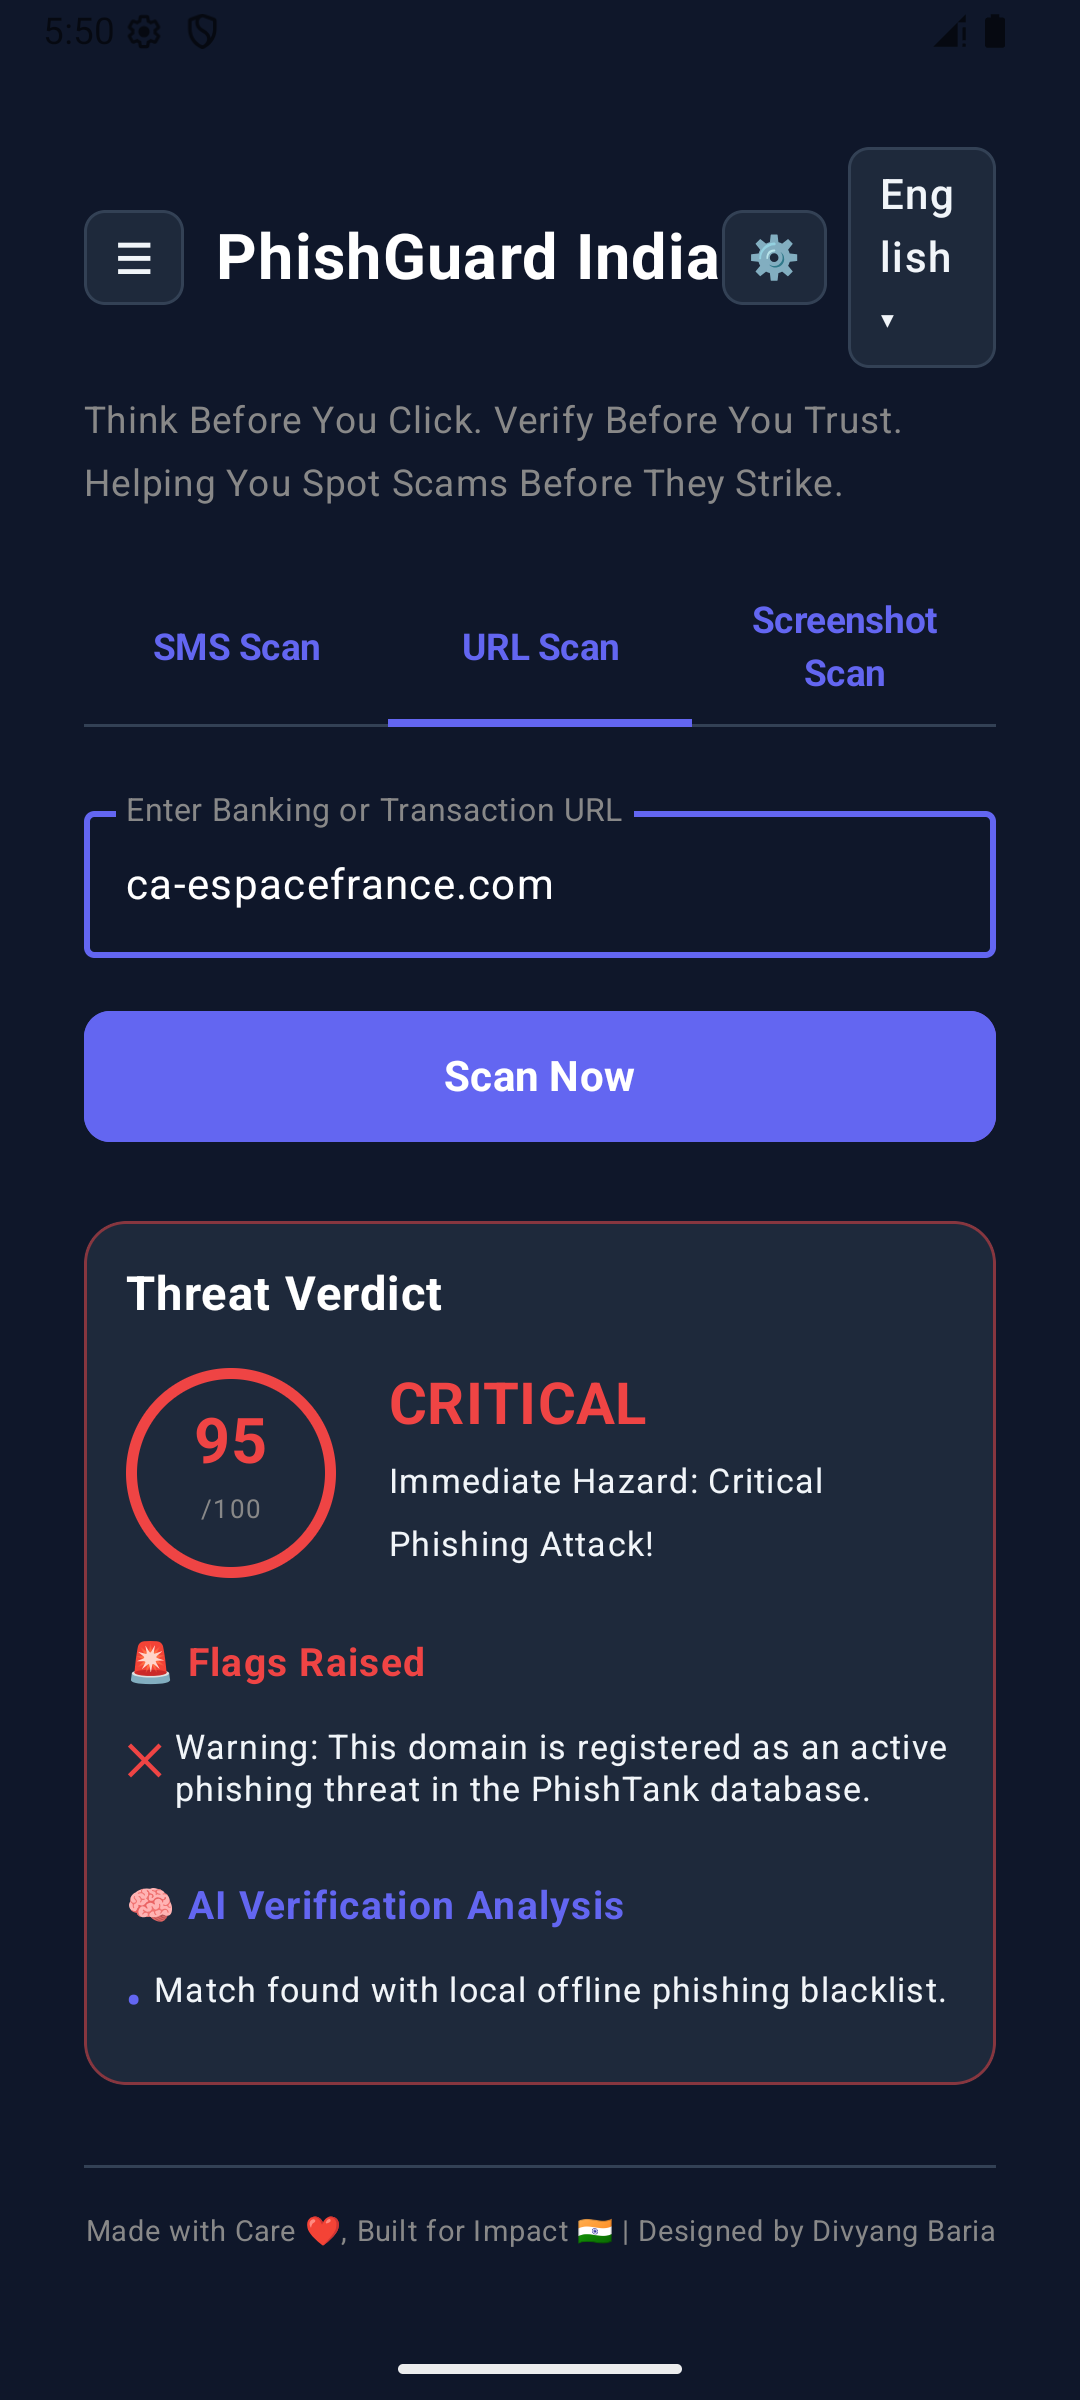
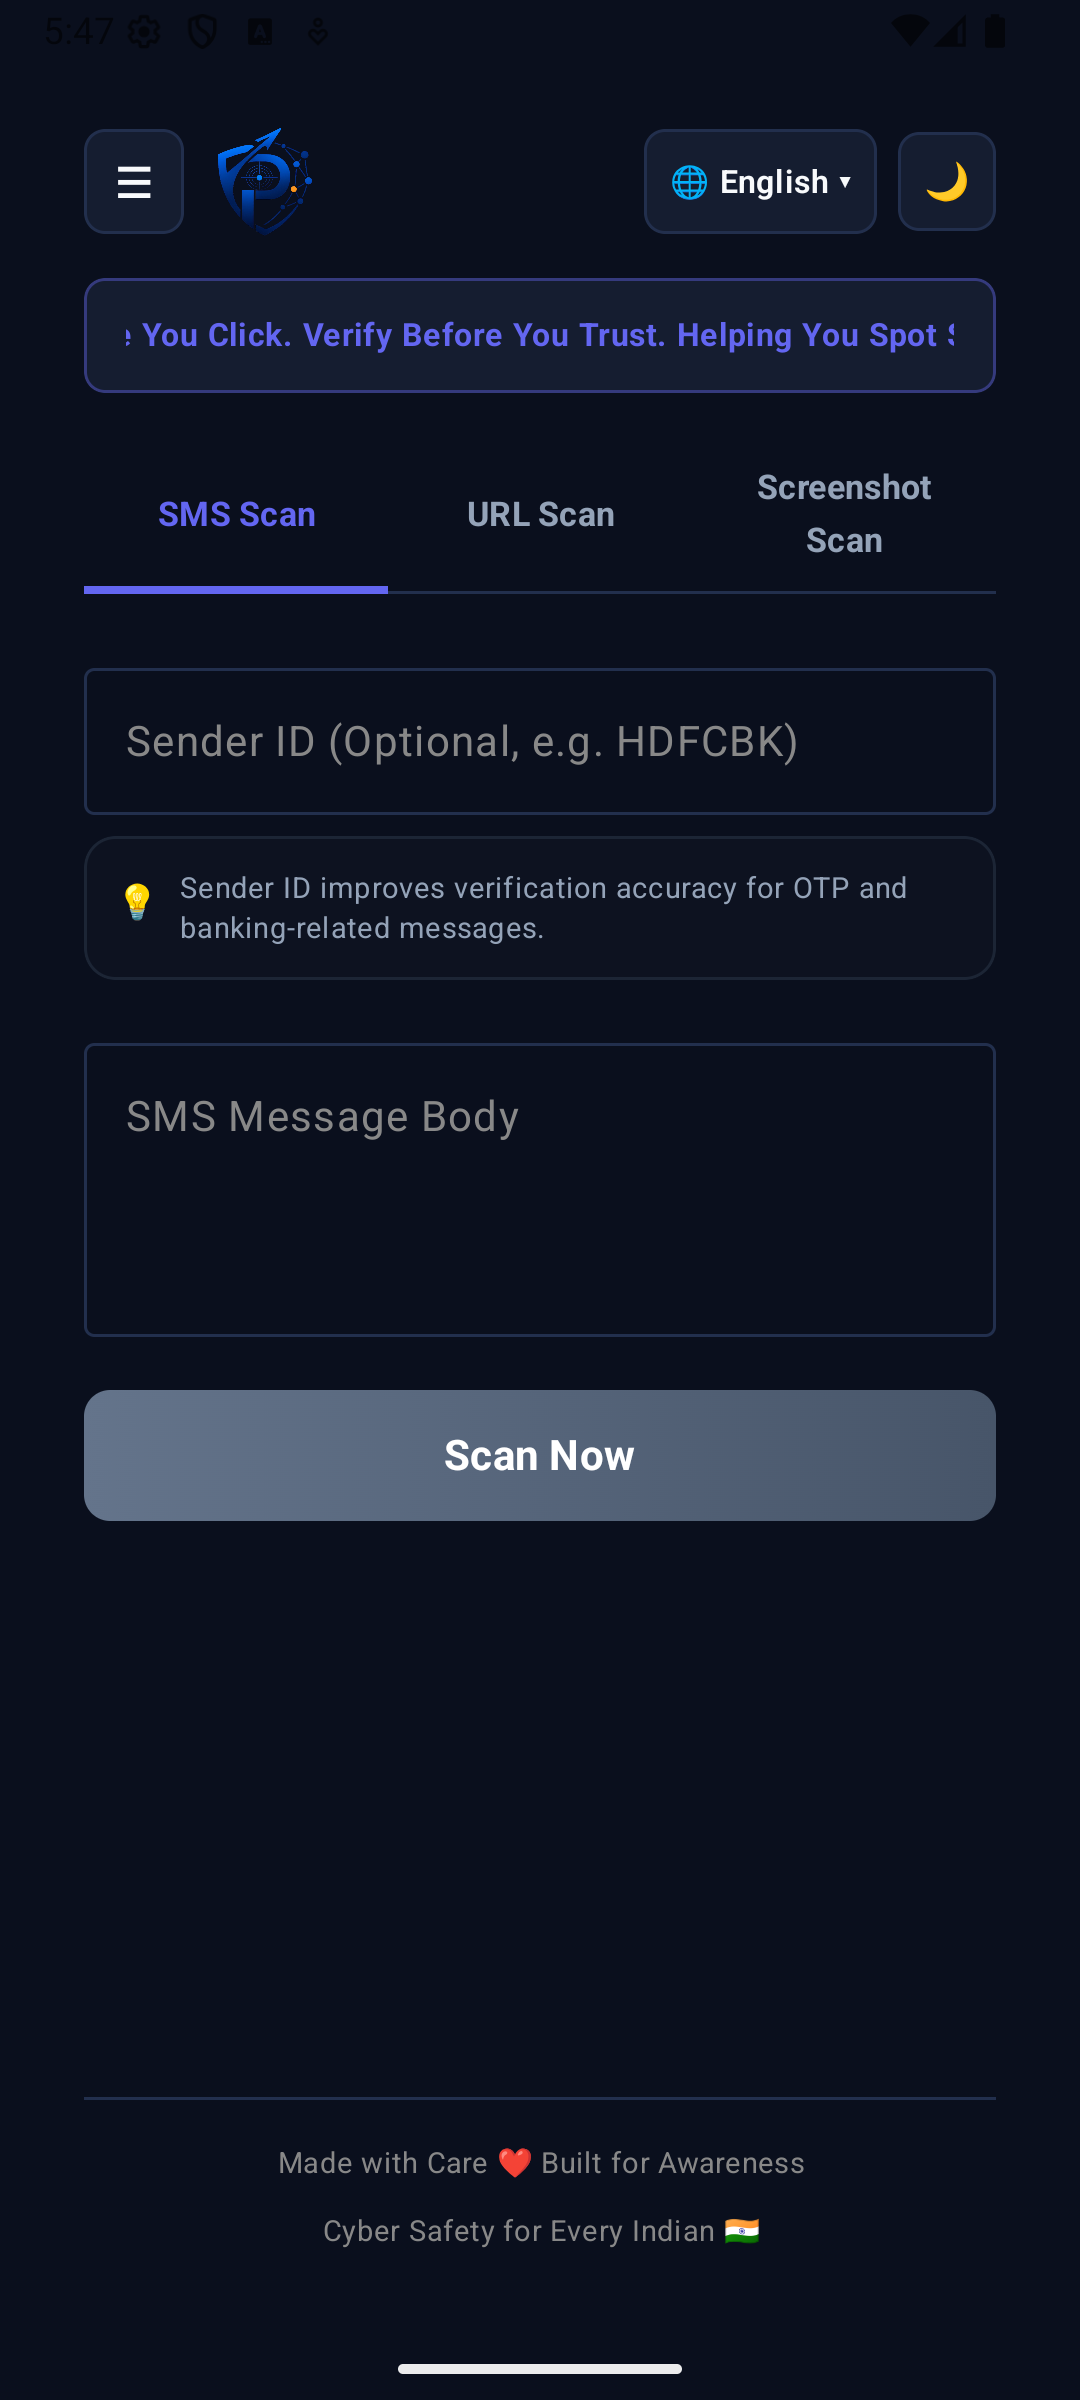
Update APK binary, screenshots, and setup guide for PhishVYUHA

diff --git a/README.md b/README.md
@@ -1,24 +1,24 @@
-# 🛡️ PhishGuard India — Android APK Testing Guide
+# 🛡️ PhishVYUHA — Android APK Testing Guide
 
-Welcome to the **PhishGuard India** testing repository! This public repository is set up for testers and friends to easily download, install, and test the PhishGuard India Android application.
+Welcome to the **PhishVYUHA** testing repository! This public repository is set up for testers and friends to easily download, install, and test the PhishVYUHA Android application.
 
-PhishGuard India is a specialized threat scanner designed to protect Indian mobile users from SMS spoofing, UPI billing fraud, typosquatted banking domains, and screenshot brand impersonation.
+PhishVYUHA is a specialized threat scanner designed to protect Indian mobile users from SMS spoofing, UPI billing fraud, typosquatted banking domains, and screenshot brand impersonation.
 
 ---
 
 ## 📱 Application Interface
 
-Here is a preview of the PhishGuard India application interface running on the Android Emulator during a statement scan verification:
+Here is a preview of the PhishVYUHA application interface running on the Android Emulator during a verification scan:
 
-![PhishGuard Emulator Preview](./emulator_screenshot.png)
+![PhishVYUHA Emulator Preview](./emulator_screenshot.png)
 
 ---
 
 ## 📥 1. Download the App
 
-Download either of the compiled Android package binaries below directly to your Android device:
+Download the compiled Android package binary below directly to your Android device:
 
-*   **[phishguard-debug.apk](./phishguard-debug.apk) (Recommended)**: Best for testing. Built with debug logs enabled and accepts any local or cloud endpoints.
+*   **[phishvyuha-debug.apk](./phishvyuha-debug.apk) (Recommended)**: Best for testing. Built with debug logs enabled and accepts any local or cloud endpoints.
 
 ---
 
@@ -27,22 +27,22 @@ Download either of the compiled Android package binaries below directly to your 
 1.  Open this page on your Android mobile browser and download the `.apk` file.
 2.  Open your file manager or browser downloads and tap the downloaded APK.
 3.  If prompted, enable **"Allow installation from unknown sources"** in your browser/file manager settings.
-4.  Tap **Install** and launch **PhishGuard India** from your app drawer.
+4.  Tap **Install** and launch **PhishVYUHA** from your app drawer.
 
 ---
 
 ## 🔌 3. Connect to the API Backend Server
 
-PhishGuard requires a backend server to query live APIs (like Google Safe Browsing, Gemini AI, and VirusTotal). By default, the app points to `http://10.0.2.2:8000` (the Android emulator local bridge).
+PhishVYUHA requires a backend server to query live APIs (like Google Safe Browsing, Gemini AI, and VirusTotal). By default, the app points to our Cloudflare workers gateway:
 
-To configure the server for your device:
-1.  Tap the **Settings (gear icon)** in the top-right corner of the PhishGuard App header.
-2.  Enter the URL of your active API backend:
-    *   **Live Cloud Service (Render)**: Set the server URL to your deployed Render service endpoint:
-        ```
-        https://phishguard-backend-drrz.onrender.com
-        ```
-3.  Tap **Save API Configuration**. You are now ready to scan!
+```
+https://phishvyuha-proxy.secure-vyuha.workers.dev
+```
+
+To configure a custom server for your device:
+1.  Tap the **Settings (gear icon)** in the top-right corner of the app header.
+2.  Enter the URL of your active API backend (e.g. `http://10.0.2.2:8000` for local development).
+3.  Tap **Save API Configuration**.
 
 ---
 
@@ -99,4 +99,5 @@ You can copy and paste the following test cases in the app's scanner tabs to che
 *   **TRAI DLT Decoder**: Automatically parses SMS prefixes to detail the carrier and circle region, and suffixes to identify message classification (Transactional, Service, Promotional, Government).
 *   **Offline Lookalike Guard**: Instant offline typosquatting checks against the official *India Financial Websites Reference List (2026)*.
 *   **Local Heuristics Early-Exit**: Bypasses AI requests for obvious scams to safeguard LLM resource quotas.
+*   **Offline Screenshot OCR Fallback**: Runs local Google ML Kit text recognition to process screenshot text when offline.
 *   **Language Localization**: Instantly translate threat alerts into English, Hindi (हिंदी), and Gujarati (ગુજરાતી).